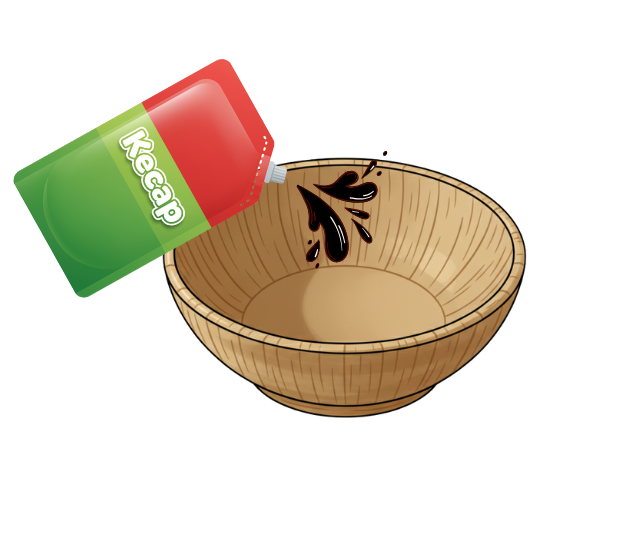
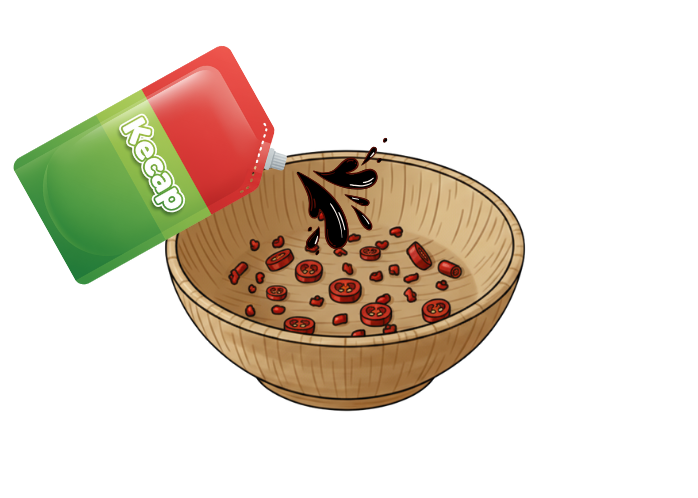
New Colo Colo

Changed region(s): [[0.0306, 0.0904, 0.8581, 0.8434], [0.0613, 0.2711, 0.0919, 0.3012], [0.0, 0.3313, 0.0306, 0.3614]]

diff --git a/src/game/scenes/ColoColoScene.ts b/src/game/scenes/ColoColoScene.ts
@@ -35,7 +35,7 @@ export default class ColoColoScene extends Phaser.Scene {
   private scrollbarThumb!: Phaser.GameObjects.Graphics;
   private isScrollbarDragging: boolean = false;
   private scrollbarDragStartY: number = 0;
-  private contentStartY: number = 0;
+  private instructionText: Phaser.GameObjects.Text | null = null;
 
   // Mobile swipe scroll variables
   private isSwipeScrolling: boolean = false;
@@ -52,10 +52,10 @@ export default class ColoColoScene extends Phaser.Scene {
   };
 
   private readonly gameSteps: GameStep[] = [
-    { id: 0, text: "Saatnya menambahkan kecap. Seret dan letakkan kecap ke dalam mangkok.", character: "karakter3.png", isCompleted: false },
-    { id: 1, text: "Mari kita mulai! Pertama, letakkan cili di atas talenan.", character: "karakter1.png", isCompleted: false },
-    { id: 2, text: "Ambil piso lalu gesekkan pada cili untuk memotongnya.", character: "karakter1.png", isCompleted: false },
-    { id: 3, text: "Bagus! Seret talenan berisi cili ke area mangkok untuk memindahkannya.", character: "karakter2.png", isCompleted: false },
+    { id: 0, text: "Mari kita mulai! Pertama, letakkan cili di atas talenan.", character: "karakter1.png", isCompleted: false },
+    { id: 1, text: "Ambil piso lalu gesekkan pada cili untuk memotongnya.", character: "karakter1.png", isCompleted: false },
+    { id: 2, text: "Bagus! Seret talenan berisi cili ke area mangkok untuk memindahkannya.", character: "karakter2.png", isCompleted: false },
+    { id: 3, text: "Saatnya menambahkan kecap. Seret dan letakkan kecap ke dalam mangkok.", character: "karakter3.png", isCompleted: false },
     { id: 4, text: "Sekarang, letakkan bawang putih di talenan yang kosong.", character: "karakter2.png", isCompleted: false },
     { id: 5, text: "Sama seperti cili, potong bawang putih hingga halus.", character: "karakter2.png", isCompleted: false },
     { id: 6, text: "Kerja bagus! Seret talenan berisi bawang ke area mangkok.", character: "karakter3.png", isCompleted: false },
@@ -97,7 +97,7 @@ export default class ColoColoScene extends Phaser.Scene {
     for (let i = 1; i <= 5; i++) this.load.image(`telenan_garlic_${i}`, `${basePath}TelenanBawangPutih${i}.png`);
     this.load.image('kecap1', `${basePath}kecap1.png`);
     this.load.image('kecap2', `${basePath}kecap2.png`);
-    this.load.image('kecap3', `${basePath}kecap3.png`);
+    this.load.image('Mangkukcabe', `${basePath}Mangkukcabe.png`);
     this.load.image('tambahancabe', `${basePath}tambahancabe.png`);
     this.load.image('tambahanbawang', `${basePath}tambahanbawang.png`);
     this.load.image('jeruk1', `${basePath}jeruk1.png`);
@@ -173,26 +173,7 @@ export default class ColoColoScene extends Phaser.Scene {
 
     this.input.on('dragend', (pointer: Phaser.Input.Pointer, gameObject: Phaser.GameObjects.Image, dropped: boolean) => {
       if (!dropped) {
-        const originalParent = gameObject.getData('originalParent');
-        const dragStartX = gameObject.getData('dragStartX');
-        const dragStartY = gameObject.getData('dragStartY');
-
-        if (originalParent === this.ingredientsContentContainer) {
-          const worldPos = this.ingredientsContentContainer.getWorldTransformMatrix();
-          this.tweens.add({
-            targets: gameObject,
-            x: worldPos.tx + dragStartX,
-            y: worldPos.ty + dragStartY,
-            duration: 400,
-            ease: 'Back.easeOut',
-            onComplete: () => {
-              gameObject.setPosition(dragStartX, dragStartY);
-              this.ingredientsContentContainer.add(gameObject);
-            }
-          });
-        } else {
-          this.resetIngredientPosition(gameObject);
-        }
+        this.resetIngredientPosition(gameObject);
       }
       if (gameObject.name === 'telenan' && this.telenanDraggable) this.handleTelenanPour();
     });
@@ -211,17 +192,18 @@ export default class ColoColoScene extends Phaser.Scene {
     let correctDrop = false;
 
     switch (this.currentStep) {
-      case 0: // Drag Kecap to Mangkuk
-        if (ingredientName === 'ingredient_kecap' && targetName === 'mangkuk') {
-          this.transformMangkuk('kecap1');
-          correctDrop = true;
-        }
-        break;
-      case 1: // Drag Cabai to Telenan
+      case 0: // Drag Cabai to Telenan
         if (ingredientName === 'ingredient_cabai' && targetName === 'telenan') {
           this.transformTelenan('telenan_chili_0');
           correctDrop = true;
           this.nextStep();
+        }
+        break;
+      case 3: // Drag Kecap to Mangkuk
+        if (ingredientName === 'ingredient_kecap' && targetName === 'mangkuk') {
+          this.transformMangkuk('kecap1');
+          this.displayInstruction("Klik Mangko untuk menuangkan Kecap");
+          correctDrop = true;
         }
         break;
       case 4: // Drag Bawang to Telenan
@@ -234,6 +216,7 @@ export default class ColoColoScene extends Phaser.Scene {
       case 7: // Drag Daun Jeruk to Mangkuk
         if (ingredientName === 'ingredient_daunjeruk' && targetName === 'mangkuk') {
           this.transformMangkuk('tambahandaun');
+          this.displayInstruction("Klik Mangko untuk memotong Daong Lemon");
           correctDrop = true;
         }
         break;
@@ -272,11 +255,11 @@ export default class ColoColoScene extends Phaser.Scene {
 
   private handleMangkukClick() {
     switch (this.currentStep) {
-      case 0: // Clicking for Kecap
+      case 3: // Clicking for Kecap
         this.subStepCounter++;
         if (this.subStepCounter === 1) this.transformMangkuk('kecap2');
         else if (this.subStepCounter === 2) {
-          this.transformMangkuk('kecap3');
+          this.transformMangkuk('tambahancabe');
           this.nextStep();
         }
         break;
@@ -292,7 +275,10 @@ export default class ColoColoScene extends Phaser.Scene {
         break;
       case 11: // Clicking for Jeruk Nipis
         this.subStepCounter++;
-        if (this.subStepCounter === 1) this.transformMangkuk('jeruk2');
+        if (this.subStepCounter === 1) {
+            this.transformMangkuk('jeruk2');
+            this.displayInstruction("Klik Mangko untuk memeras Lemon Cina");
+        }
         else if (this.subStepCounter === 2) {
             this.transformMangkuk('jerukmangkuk');
             this.nextStep();
@@ -324,7 +310,7 @@ export default class ColoColoScene extends Phaser.Scene {
       return;
     }
 
-    const isCuttingStep = this.currentStep === 2 || this.currentStep === 5 || this.currentStep === 10;
+    const isCuttingStep = this.currentStep === 1 || this.currentStep === 5 || this.currentStep === 10;
     if (!isCuttingStep) return;
     const deltaX = pointer.x - this.lastSlicePosition.x;
     if (Math.abs(deltaX) > 5) {
@@ -335,7 +321,7 @@ export default class ColoColoScene extends Phaser.Scene {
             this.sliceStrokes = 0;
             this.subStepCounter++;
             let cuttingComplete = false;
-            if (this.currentStep === 2) {
+            if (this.currentStep === 1) {
                 const max = 3;
                 this.transformTelenan(`telenan_chili_${Math.min(this.subStepCounter, max)}`);
                 if (this.subStepCounter >= max) cuttingComplete = true;
@@ -357,7 +343,7 @@ export default class ColoColoScene extends Phaser.Scene {
   }
 
   private handleTelenanClick() {
-    const canSelect = (this.currentStep === 3 && this.gameState.telenanState === 'telenan_chili_3') ||
+    const canSelect = (this.currentStep === 2 && this.gameState.telenanState === 'telenan_chili_3') ||
                       (this.currentStep === 6 && this.gameState.telenanState === 'telenan_garlic_5') ||
                       (this.currentStep === 11 && this.gameState.telenanState === 'telenan_lime_2');
     if (canSelect) this.makeTelenanDraggable();
@@ -378,8 +364,8 @@ export default class ColoColoScene extends Phaser.Scene {
       return;
     }
     let transferred = false;
-    if (this.currentStep === 3) {
-      this.transformMangkuk('tambahancabe');
+    if (this.currentStep === 2) {
+      this.transformMangkuk('Mangkukcabe');
       this.transformTelenan('colo_telenan');
       transferred = true;
     } else if (this.currentStep === 6) {
@@ -402,6 +388,10 @@ export default class ColoColoScene extends Phaser.Scene {
   }
 
   private nextStep() {
+    if (this.instructionText) {
+        this.instructionText.destroy();
+        this.instructionText = null;
+    }
     if (this.currentStep >= this.gameSteps.length - 1) return;
     this.gameSteps[this.currentStep].isCompleted = true;
     this.currentStep++;
@@ -434,7 +424,26 @@ export default class ColoColoScene extends Phaser.Scene {
   }
 
   private resetIngredientPosition(gameObject: Phaser.GameObjects.Image) {
-    this.tweens.add({ targets: gameObject, x: gameObject.getData('dragStartX'), y: gameObject.getData('dragStartY'), duration: 300, ease: 'Power2' });
+    const originalParent = gameObject.getData('originalParent');
+    const dragStartX = gameObject.getData('dragStartX');
+    const dragStartY = gameObject.getData('dragStartY');
+
+    if (originalParent === this.ingredientsContentContainer) {
+        const worldPos = this.ingredientsContentContainer.getWorldTransformMatrix();
+        this.tweens.add({
+            targets: gameObject,
+            x: worldPos.tx + dragStartX,
+            y: worldPos.ty + dragStartY,
+            duration: 400,
+            ease: 'Back.easeOut',
+            onComplete: () => {
+                gameObject.setPosition(dragStartX, dragStartY);
+                this.ingredientsContentContainer.add(gameObject);
+            }
+        });
+    } else {
+        this.tweens.add({ targets: gameObject, x: dragStartX, y: dragStartY, duration: 300, ease: 'Power2' });
+    }
 
     this.cameras.main.shake(150, 0.008);
     
@@ -465,6 +474,32 @@ export default class ColoColoScene extends Phaser.Scene {
   }
 
   private showSuccessFeedback() { this.cameras.main.flash(100, 144, 238, 144); }
+
+  private displayInstruction(message: string) {
+    if (this.instructionText) {
+        this.instructionText.destroy();
+    }
+
+    const { width, height } = this.cameras.main;
+    const cookingAreaCenterX = (width - this.layoutConfig.ingredientsPanelWidth) / 2;
+    const cookingAreaCenterY = height / 2;
+
+    this.instructionText = this.add.text(cookingAreaCenterX, cookingAreaCenterY - 100, message, {
+        fontSize: '32px',
+        fontFamily: 'Chewy, cursive',
+        color: '#FFFFFF',
+        backgroundColor: 'rgba(0,0,0,0.7)',
+        padding: { x: 20, y: 10 },
+        align: 'center',
+    }).setOrigin(0.5).setDepth(1000);
+
+    this.time.delayedCall(3000, () => {
+        if (this.instructionText) {
+            this.instructionText.destroy();
+            this.instructionText = null;
+        }
+    });
+  }
 
   private calculateLayout() {
     const gameWidth = this.cameras.main.width;
